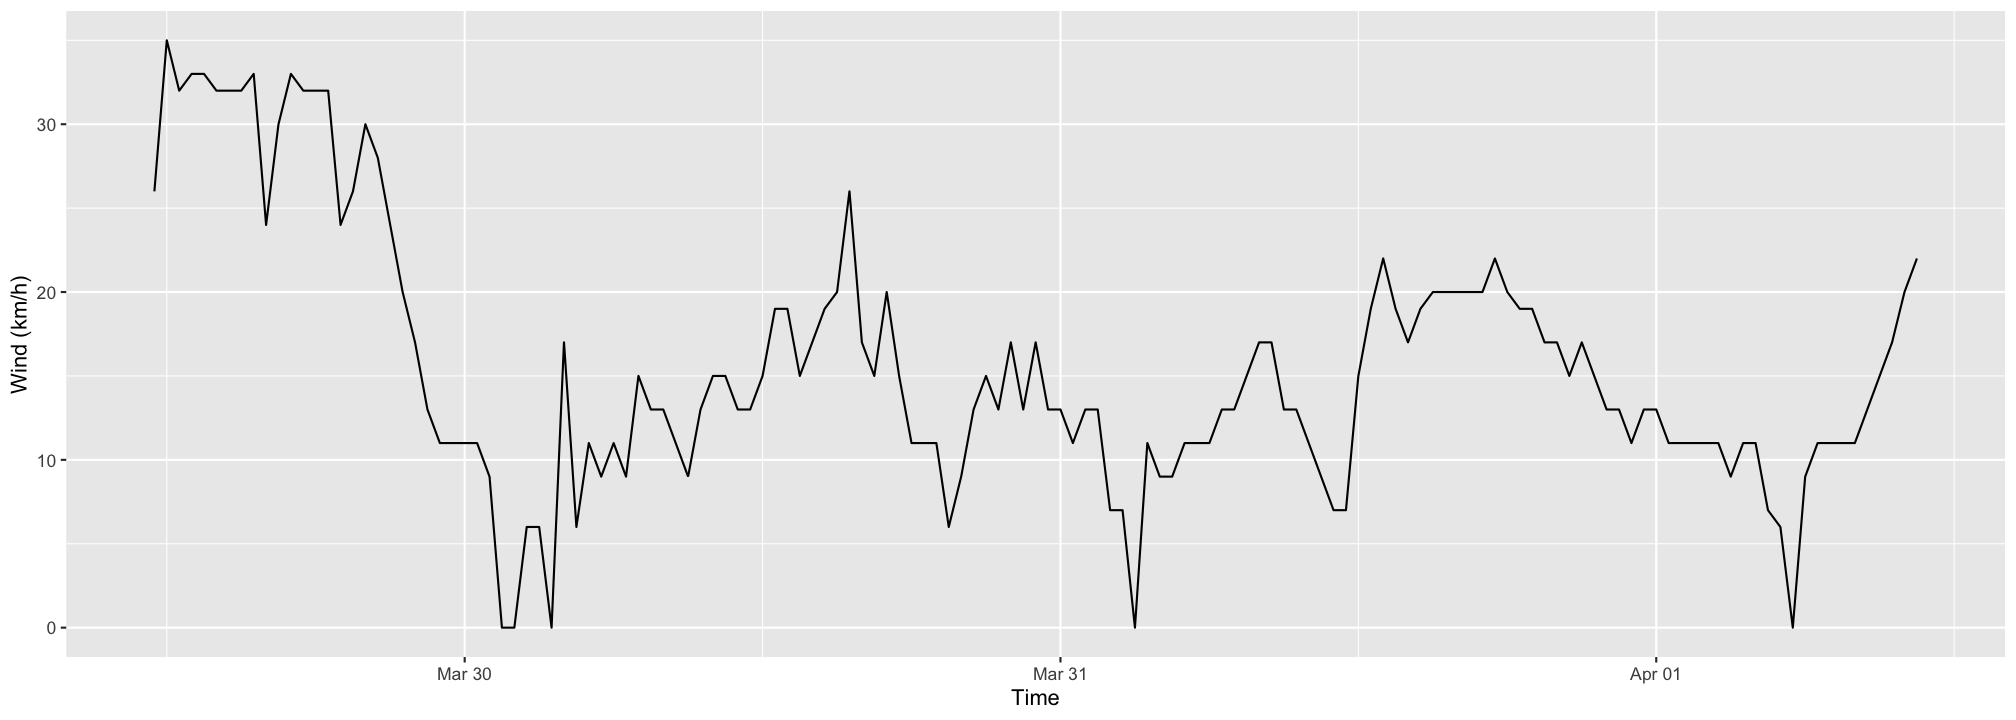
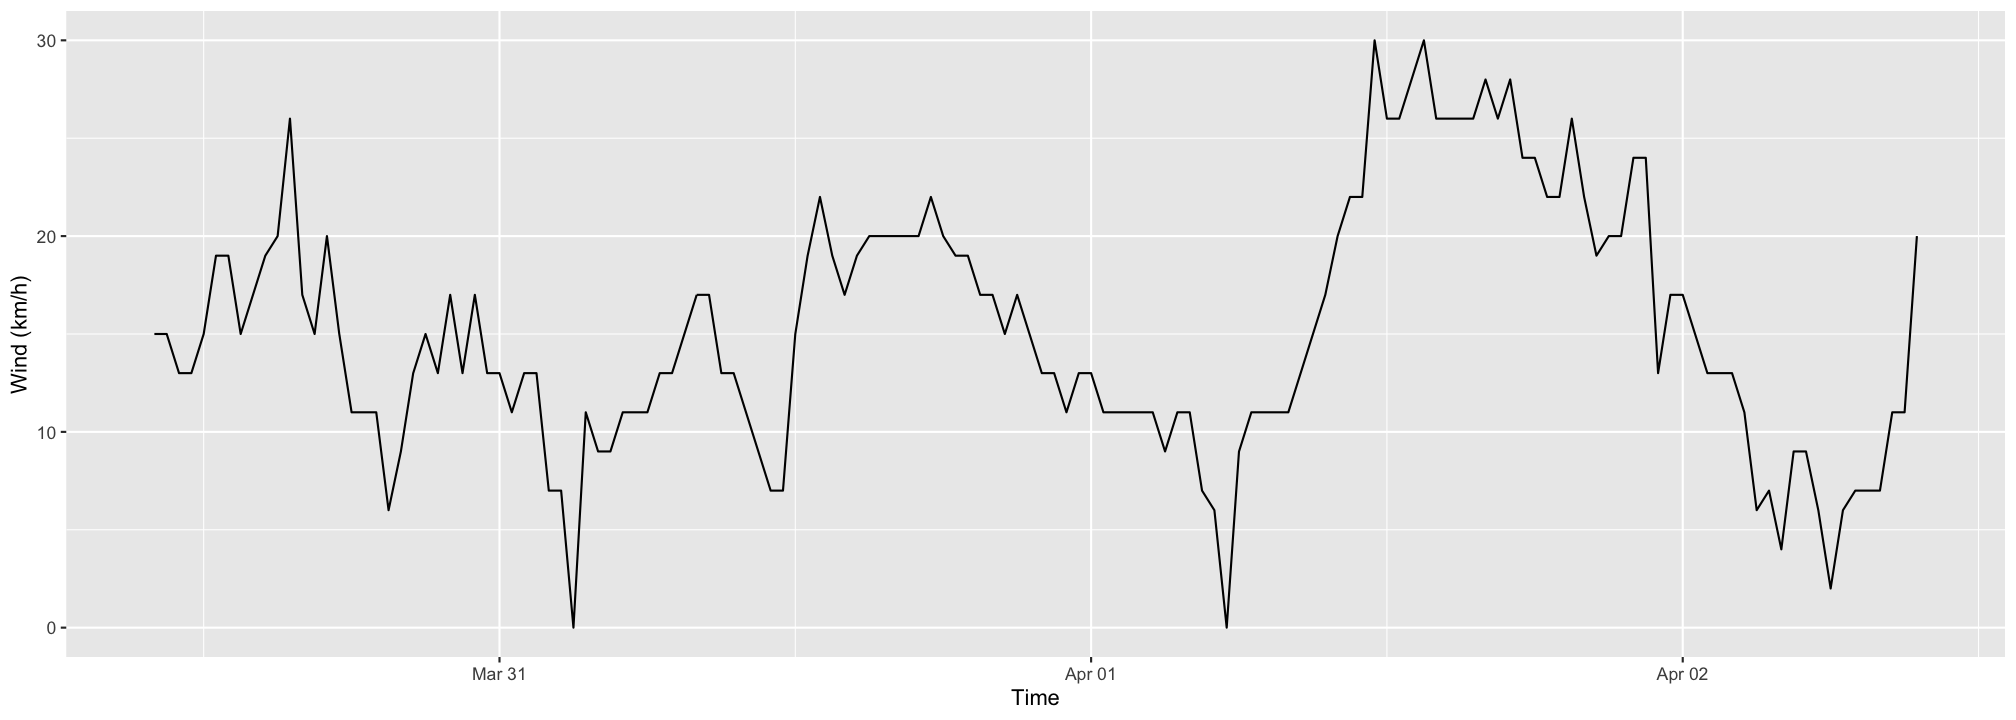
upd slides after prac talk

diff --git a/index.html b/index.html
@@ -28,11 +28,21 @@ class: center, middle, inverse, title-slide
 # Making a Shiny application
 ## <a href="https://kevinwang09.github.io/shiny_3888/" class="uri">https://kevinwang09.github.io/shiny_3888/</a>
 ### <a href="https://kevinwang09.github.io/">Kevin Y. X. Wang</a>
-### 2020 April 02, slides compiled on 2020 Apr 01
+### 2020 April 02, slides compiled on 2020 Apr 02
 
 ---
 
 
+
+
+# Instructions 
+
++ All materials are in this repo: https://github.com/kevinwang09/shiny_3888
++ Try to download a copy of the repository via (https://github.com/kevinwang09/shiny_3888/archive/master.zip) if they want to run the materials interactively in class. 
++ Slides are here: https://kevinwang09.github.io/shiny_3888
++ Install revevant packages here: https://github.com/kevinwang09/shiny_3888/blob/master/install.R
+
+---
 
 # Lecture outline
 
@@ -63,6 +73,8 @@ Motivation: weather warning
 
 # `bomrang.Rmd`
 
+[Vignette of bomrang](https://cran.r-project.org/web/packages/bomrang/vignettes/bomrang.html)
+
 .scroll-output[
 
 ```r
@@ -72,6 +84,50 @@ library(tidyverse)
 location = "Sydney airport"
 weather = bomrang::get_current_weather(location)
 
+glimpse(weather)
+```
+
+```
+## Observations: 144
+## Variables: 35
+## $ sort_order           &lt;int&gt; 0, 1, 2, 3, 4, 5, 6, 7, 8, 9, 10, 11, 12, 13, 14…
+## $ wmo                  &lt;int&gt; 94767, 94767, 94767, 94767, 94767, 94767, 94767,…
+## $ full_name            &lt;chr&gt; "Sydney Airport", "Sydney Airport", "Sydney Airp…
+## $ history_product      &lt;chr&gt; "IDN60801", "IDN60801", "IDN60801", "IDN60801", …
+## $ local_date_time      &lt;chr&gt; "02/09:30am", "02/09:00am", "02/08:30am", "02/08…
+## $ local_date_time_full &lt;dttm&gt; 2020-04-02 09:30:00, 2020-04-02 09:00:00, 2020-…
+## $ aifstime_utc         &lt;dttm&gt; 2020-04-01 22:30:00, 2020-04-01 22:00:00, 2020-…
+## $ lat                  &lt;dbl&gt; -33.9465, -33.9465, -33.9465, -33.9465, -33.9465…
+## $ lon                  &lt;dbl&gt; 151.1731, 151.1731, 151.1731, 151.1731, 151.1731…
+## $ apparent_t           &lt;dbl&gt; 22.2, 23.8, 23.0, 23.0, 22.8, 22.6, 22.8, 22.6, …
+## $ cloud                &lt;chr&gt; "Mostly clear", "Mostly cloudy", "Mostly clear",…
+## $ cloud_base_m         &lt;dbl&gt; 480, 300, 750, 750, 900, 900, 450, 300, 450, 450…
+## $ cloud_oktas          &lt;dbl&gt; 1, 7, 1, 1, 1, 1, 1, 3, 1, 1, 1, 1, 1, 5, 1, 1, …
+## $ cloud_type           &lt;chr&gt; "Stratus", "-", "Cumulus", "Cumulus", "Cumulus",…
+## $ cloud_type_id        &lt;int&gt; 7, 36, 8, 8, 8, 8, 7, 36, 7, 7, 7, 7, 7, 36, 7, …
+## $ delta_t              &lt;dbl&gt; 3.5, 2.6, 2.3, 1.8, 1.6, 1.5, 1.3, 1.2, 1.4, 1.5…
+## $ gust_kmh             &lt;int&gt; 30, 15, 13, 9, 11, 9, 9, 7, 9, 11, 11, 7, 9, 9, …
+## $ gust_kt              &lt;int&gt; 16, 8, 7, 5, 6, 5, 5, 4, 5, 6, 6, 4, 5, 5, 7, 9,…
+## $ air_temp             &lt;dbl&gt; 23.3, 22.8, 22.1, 21.3, 21.1, 20.9, 20.8, 20.1, …
+## $ dewpt                &lt;dbl&gt; 17.7, 18.6, 18.5, 18.5, 18.5, 18.5, 18.7, 18.1, …
+## $ press                &lt;dbl&gt; 1014.7, 1015.2, 1015.3, 1015.2, 1015.0, 1015.1, …
+## $ press_msl            &lt;dbl&gt; 1014.7, 1015.2, 1015.3, 1015.2, 1015.0, 1015.1, …
+## $ press_qnh            &lt;dbl&gt; 1014.7, 1015.2, 1015.3, 1015.2, 1015.0, 1015.1, …
+## $ press_tend           &lt;chr&gt; "-", "F", "-", "-", "-", "-", "-", "F", "-", "-"…
+## $ rain_trace           &lt;dbl&gt; 0, 0, 0, 0, 0, 0, 0, 0, 0, 0, 0, 0, 0, 0, 0, 0, …
+## $ rel_hum              &lt;int&gt; NA, NA, NA, NA, NA, NA, NA, NA, NA, NA, NA, NA, …
+## $ sea_state            &lt;chr&gt; "-", "-", "-", "-", "-", "-", "-", "-", "-", "-"…
+## $ swell_dir_worded     &lt;chr&gt; "-", "-", "-", "-", "-", "-", "-", "-", "-", "-"…
+## $ swell_height         &lt;lgl&gt; NA, NA, NA, NA, NA, NA, NA, NA, NA, NA, NA, NA, …
+## $ swell_period         &lt;lgl&gt; NA, NA, NA, NA, NA, NA, NA, NA, NA, NA, NA, NA, …
+## $ vis_km               &lt;chr&gt; "10", "20", "10", "10", "10", "10", "10", "25", …
+## $ weather              &lt;chr&gt; "-", "Haze", "-", "-", "-", "-", "-", "Fine", "-…
+## $ wind_dir             &lt;chr&gt; "NNE", "N", "WNW", "NNW", "N", "N", "N", "NNW", …
+## $ wind_spd_kmh         &lt;int&gt; 20, 11, 11, 7, 7, 7, 6, 2, 6, 9, 9, 4, 7, 6, 11,…
+## $ wind_spd_kt          &lt;int&gt; 11, 6, 6, 4, 4, 4, 3, 1, 3, 5, 5, 2, 4, 3, 6, 7,…
+```
+
+```r
 weather %&gt;% 
   ggplot(aes(x = local_date_time_full,
              y = wind_spd_kmh)) +
@@ -90,14 +146,18 @@ weather %&gt;%
 + A Rmd file captures a snapshot of the data with a fixed set of parameters
 
   - Good for reproducibility and record keeping
-  - Bad for looking at real-time data (e.g. "Sydney airport" is hard-coded)
+  - Bad for looking at updated data (e.g. "Sydney airport" is hard-coded)
 
+--
 
-+ A Shiny app hides all the computations in the background and only shows inputs and outputs more relevant to the user (a domain expert not familiar with the underlying R codes)
++ A Shiny app can access data in real-time and modify outputs (plots &amp; summary statistics) instantly based on user inputs (parameters like "location")
 
-+ A Shiny app can access data in real-time and modify outputs instantly based on user inputs
++ A Shiny app is a dashboard application*. It hides all the computations in the background and only shows inputs and outputs more relevant to the user (a domain expert not familiar with the underlying R codes)
 
-+ The purpose of this lecture is to build this Shiny app:
+.footnote[If you want to see examples of dashboards: https://ourworldindata.org/coronavirus]
+--
+
++ The purpose of this lecture is to build this simple Shiny app and understand its design:
 
 ```
 shiny::runGitHub(
@@ -110,22 +170,26 @@ shiny::runGitHub(
 
 # Why Shiny feels a bit funny?
 
-+ Three components:
++ A Shiny app is very much point-and-click 
+
++ But underneath, Shiny uses R for computation and impose very strict rules on input and output 
++ So much so it almost feels like Shiny is a language on its own
+
++ For the bomrang Shiny app, try to focus on three components:
 
     1. Input (enter location)
     1. Computation (download data, make plots, modelling)
     1. Outputs (show figures, make interpretations)
 
-+ Shiny uses R for computation but impose strict rules on input and output (so much so it almost feels like Shiny is a language on its own)
-
 ---
 class: segue
 
-Knitting `bomrang.Rmd` will give you a skeleton Shiny app
+Demo 0: Knitting `bomrang.Rmd` will give you a skeleton Shiny app
 
 (This is not a full app, but only to see what an "input" and an "output" are in context of a Shiny app) 
 ---
-# Structure of a Shiny app: `input` and `output`
+# `input` and `output`: the core of Shiny
+
 Input: a location as text
 
 ```r
@@ -149,12 +213,13 @@ renderPlot({
 })
 ```
 ---
+
 class: segue
 
 shiny = `ui.R`+ `server.R`
 
 ---
-# A Shiny app is made up of two `.R` scripts
+# A Shiny app is made up of two `.R` scripts*
 
 + Inputs
     - Special function managing inputs in `ui.R`
@@ -163,7 +228,7 @@ shiny = `ui.R`+ `server.R`
 + Outputs
     - Special function managing outputs in `ui.R`
     
-+ You are allowed to have more than two scripts, if you wish to better organise longer codes (e.g. using `global.R`, see later)
+.footnote[*you are allowed to have more than two scripts, if you wish to better organise substaintial codes (e.g. using `global.R`, see later)]
 ---
 class: segue
 
@@ -174,6 +239,10 @@ Demo 1: Let's build your first Shiny app!
 
 
 ```r
+library(shiny)
+library(bomrang)
+library(tidyverse)
+
 *shinyUI(
 *    fluidPage(
         textInput(inputId = "location",
@@ -183,14 +252,17 @@ Demo 1: Let's build your first Shiny app!
 *    )
 *)
 ```
+
++ The inputs as determined from `ui.R` are passed to `server.R` as a list, named `input`
++ You can access these inputs in `server.R` using `input$inputId`
++ `fluidPage` is not terribly important here
+
 ---
 
 # `server.R`
 
-+ The inputs as determined from `ui.R` are passed to `server.R` as a list, named `input`
-+ You can access these inputs using `input$inputId`
 + The outputs as processed by `server.R` are passed to `ui.R` as a list, named `output`
-+ You can access these ouputs using `output$outputId`
++ You can access these ouputs in `ui.R` using `output$outputId`
 
 
 ```r
@@ -214,20 +286,18 @@ Demo 1: Let's build your first Shiny app!
 
 + My typicall workflow: 
   - Write a `Rmd` file before making a full app to ensure all codes are correct and get a sense of what should be inputs/outputs
-  - Open up a new Shiny app in RStudio (File -&gt; New File -&gt; Shiny Web App)
-  
-  
+  - Open up a an old Shiny app I made or, from RStudio (File -&gt; New File -&gt; Shiny Web App)
+
+--
+
 + There are many more `render*` and `*Input` functions, see [here](https://kevinwang09.github.io/SSA-Shiny-Workshop-2019/01-Intro.html#20) for a incomplete list.
 
 + Designing a good UI is more of an art, I found looking at other people's work to be quite useful (see extra links at the end of these slides)
-
-+ Another way to make a Shiny app is to copy the entire `ui.R` and `server.R` into one `app.R`. But I am an old man with a preference for modularisation.
-
 ---
 
 class: segue
 
-Demo2: `reactive`, a key concept in Shiny apps
+Demo 2: `reactive`, a key concept in Shiny apps
 
 ---
 # "reactive" values
@@ -250,25 +320,53 @@ Error in .getReactiveEnvironment()$currentContext() :
 ```r
 shinyServer(function(input, output) {
     output$wind_plot = renderPlot({
-        weather = get_current_weather(input$location)
-        weather %&gt;% 
-            ggplot(...)
+       weather = get_current_weather(input$location)
+       weather %&gt;% 
+          ggplot(aes(x = local_date_time_full,
+                     y = wind_spd_kmh)) +
+          geom_path() +
+          labs(x = "Time", 
+               y = "Wind (km/h)")
     })
     
-    output$temp_plot = renderPlot({
-*        weather %&gt;% 
+*  output$temp_plot = renderPlot({
+*         weather %&gt;% 
 *            ggplot(aes(x = local_date_time_full,
 *                       y = apparent_t)) +
 *            geom_path() +
 *            labs(x = "Time", 
 *                 y = "Apparent Temp (Celcius)")
-    })
+*   })
 })
 ```
 
---
+---
+# This `server.R` will fail. Why?
 
-+ Being `R` functions, the values you computed internally inside one `renderPlot` will not be shared with another `renderPlot` function (or any function for that matter)
+
+```r
+shinyServer(function(input, output) {
+    output$wind_plot = renderPlot({
+*      weather = get_current_weather(input$location)
+*      weather %&gt;% 
+          ggplot(aes(x = local_date_time_full,
+                     y = wind_spd_kmh)) +
+          geom_path() +
+          labs(x = "Time", 
+               y = "Wind (km/h)")
+    })
+    
+  output$temp_plot = renderPlot({
+*        weather %&gt;% 
+            ggplot(aes(x = local_date_time_full,
+                       y = apparent_t)) +
+            geom_path() +
+            labs(x = "Time", 
+                 y = "Apparent Temp (Celcius)")
+   })
+})
+```
+
 
 ---
 # This `server.R` will work, but why it is a bad idea?
@@ -474,13 +572,13 @@ validate(
 # Do's and dont's
 
 - Do's
-  + Write a Rmd file to plan out what are the inputs/ouputs of an app. 
+  + Write a Rmd file to plan out what are the inputs/ouputs of an app
   + Build a working app first before prettifying
-  + Google! There are a lot of free resources/blog posts and app examples on GitHub. 
+  + Google! There are a lot of free resources/blog posts and app examples on GitHub
   + Make lots of git commits (always have a working copy to go back to)
 
 - Dont's
-  + Write awfully long functions, try to modularise your code whereever possible
+  + Write awfully long functions, try to modularise your code whereever possible (this is why I don't use `app.R`)
   + Manage your brackets by using comments and chunk collapse
   + Cry when debugging Shiny
   + Make an app that takes up a lot of resources
